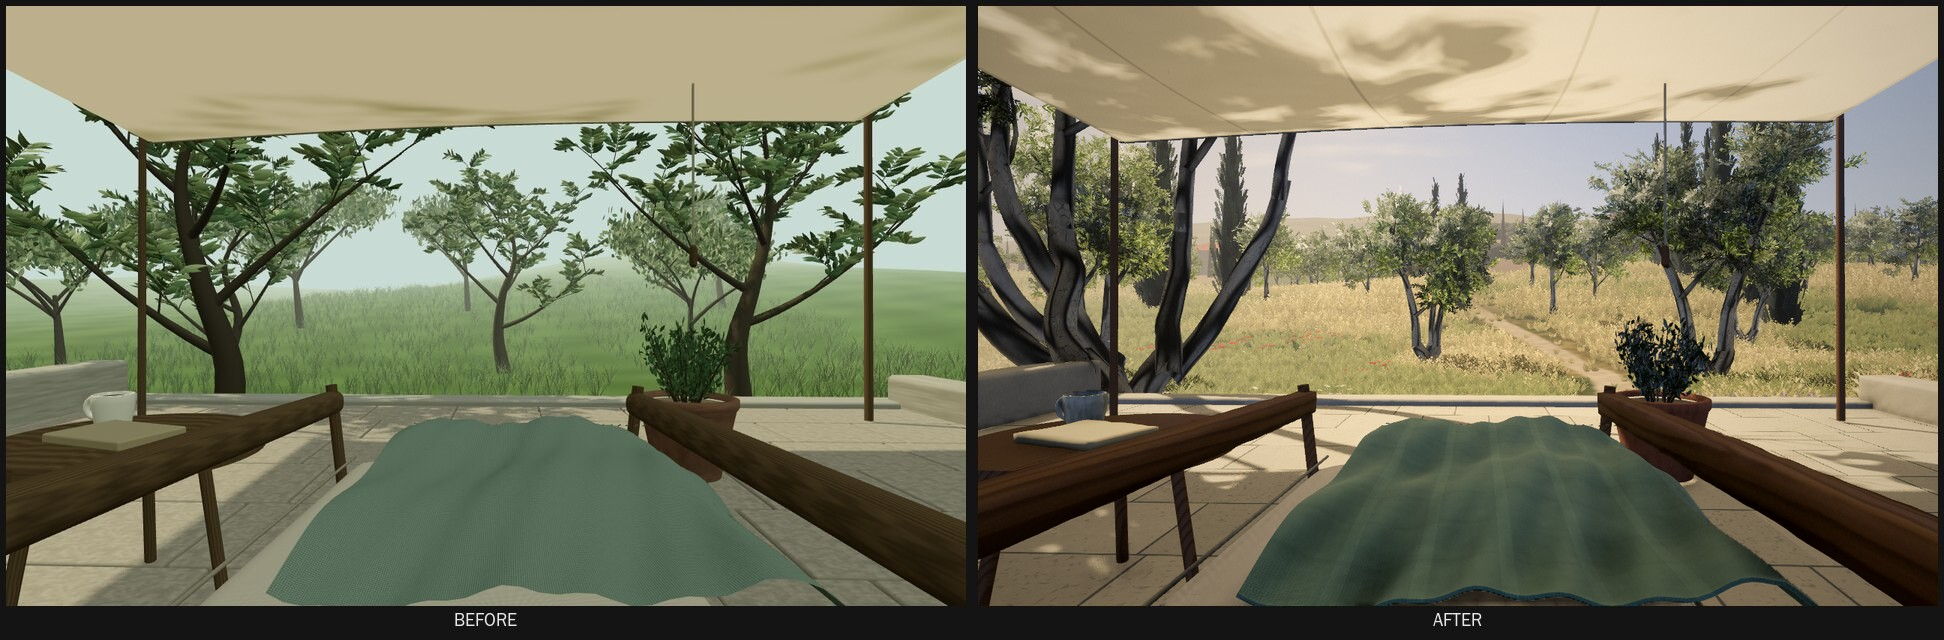
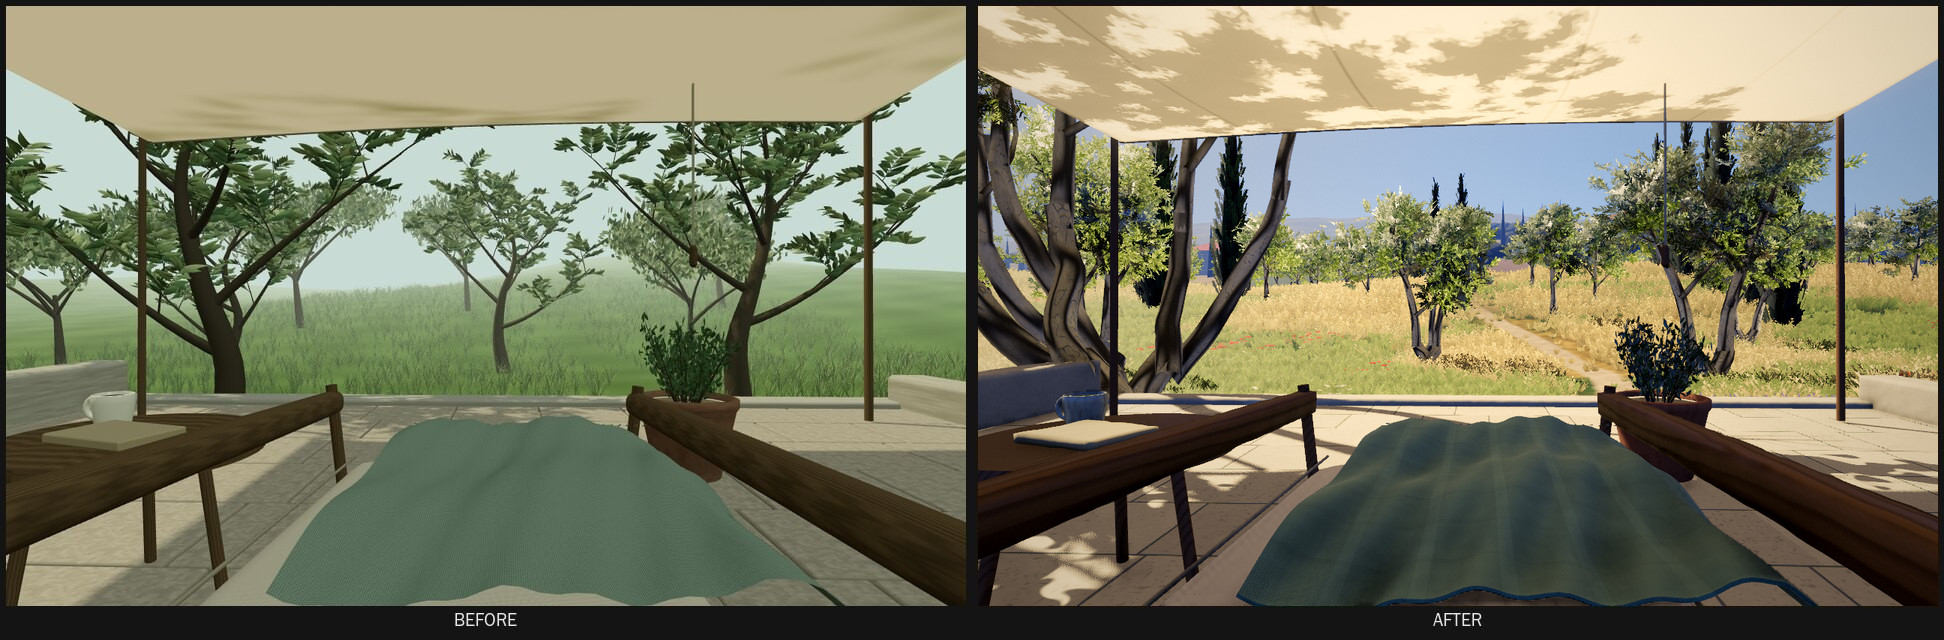
Give the power-nap terrace daylight you can feel
The second-pass garden still read hazy and low-contrast: a pale milky
horizon, warm haze veiling the near meadow, a weak sun against a strong
fill, a pale sail and an unthresholded bloom lifting every shadow.

- Sun 4.8 -> 8.4 against a lower probe fill, so sun and shade separate;
  crisper canopy dapples (narrower transition, leaf-scale flecks).
- Sky as linear HDR radiance: saturated zenith over a lighter but still
  blue horizon, an aureole on the sun's side, sparse cumulus, and sunlit
  fields below the horizon so the probe gives warm ground bounce.
- Garden volume: haze gated by distance (new `clear` option), so the
  near meadow stays clear and only the far ridges recede into blue;
  short sky path so the haze no longer greys the sky.
- Sail: warm HDR transmission that blooms, brightest toward the sun,
  with leaf shadows serrated at leaf scale. The radiance probe takes it
  at canvas-like strength (sailGain), so the shade beneath stays cool.
- Meadow: gold and green meet as patches; warmer gold, greener green
  tufts; stronger backlit translucency. Olive leaves glint (roughness
  0.4) and glow when backlit; more meadow bounce on the trunks.
- Grade: thresholded bloom instead of a veil, exposure 0.94, contrast
  1.09, saturation 1.14, warm highlights and cool shadows.

Luminance (gray mean / stddev), 1280x800: 0.474/0.248 -> 0.488/0.282;
390x844: 0.533/0.257 -> 0.532/0.290. No clipped whites. Same triangles
[…]

diff --git a/components/immersiveWorlds/cozyRooms/napTerrace.ts b/components/immersiveWorlds/cozyRooms/napTerrace.ts
@@ -6,7 +6,7 @@ import { createWoodMaterial } from '../shared/render/woodSurface';
 import { createFabricMaterial } from '../shared/render/fabricSurface';
 import { createGlazeMaterial, patchSurface } from '../shared/render/interiorSurface';
 import { applyBarkSurface } from '../shared/render/barkSurface';
-import { applyFoliageShading, type FoliageWind } from '../shared/render/foliageShading';
+import { applyFoliageShading, beforeMain, type FoliageWind } from '../shared/render/foliageShading';
 import { concatGeometries } from '../shared/render/treeGeometry';
 import { GLSL_NOISE } from '../shared/render/glsl';
 import { fbm3, noise3, seeded } from '../shared/render/noise';
@@ -21,10 +21,10 @@ import {
  * terrace, early afternoon. Beyond the low coping a meadow of dry gold and green
  * grass with drifts of poppies and chamomile runs past old olives with twisted,
  * split trunks to a grove on the rising slope, a lane of cypresses, farmhouses
- * with terracotta roofs and hills fading into warm haze. The sun is the key
- * light; one canopy function dapples the leaves, the meadow, the terrace and
- * the sail's transmitted glow and lights the shafts in the air. The shade is
- * lit by the sky and the sunlit garden (a radiance probe of the scene itself).
+ * with terracotta roofs and hills fading into blue distance under a clear sky.
+ * The sun is a strong key light; one canopy function dapples the leaves, the
+ * meadow, the terrace and the sail's transmitted glow. The shade is lit by the
+ * sky and the sunlit garden (a radiance probe of the scene itself).
  * Original procedural work.
  */
 
@@ -35,21 +35,30 @@ varying vec3 vWorld;
 void main() {
   vec3 d = normalize(vWorld - cameraPosition);
   float h = max(d.y, -0.05);
-  // Deep afternoon zenith over a warm, hazy horizon; brighter toward the sun's azimuth.
+  // Clear Mediterranean afternoon: a deep, saturated zenith over a lighter horizon
+  // that stays blue (linear radiance, graded by the HDR pipeline), a little paler
+  // toward the sun's azimuth.
   float toward = dot(normalize(vec3(d.x, 0.0, d.z) + 1e-5), normalize(vec3(uSun.x, 0.0, uSun.z))) * 0.5 + 0.5;
-  vec3 zenith = vec3(0.06, 0.2, 0.66), horizon = mix(vec3(0.36, 0.52, 0.84), vec3(0.96, 0.88, 0.74), pow(toward, 5.0));
-  vec3 sky = mix(horizon, zenith, pow(clamp(h / 0.55, 0.0, 1.0), 0.55));
-  // A thin warm dust band right on the horizon.
-  sky = mix(sky, vec3(0.94, 0.87, 0.76), exp(-max(h, 0.0) * 30.0) * 0.4);
-  float mu = dot(d, uSun);
-  sky += vec3(1.0, 0.86, 0.62) * (pow(max(mu, 0.0), 6.0) * 0.45 + pow(max(mu, 0.0), 90.0) * 2.5);
-  // Small fair-weather cumulus low over the hills, lit on the sun side.
+  vec3 zenith = vec3(0.11, 0.31, 0.98), horizon = mix(vec3(0.3, 0.68, 2.1), vec3(0.52, 0.8, 1.95), pow(toward, 4.0));
+  vec3 sky = mix(horizon, zenith, pow(clamp(h / 0.5, 0.0, 1.0), 0.6));
+  // Only a thin, pale band right on the horizon line.
+  sky = mix(sky, vec3(0.58, 0.84, 1.9), exp(-max(h, 0.0) * 60.0) * 0.45);
+  // The sun's aureole brightens the sky on its side; the HDR disc itself is hidden
+  // by the sail from the chaise and shows only in the radiance probe's highlights.
+  float mu = max(dot(d, uSun), 0.0);
+  sky += vec3(1.0, 0.9, 0.72) * (pow(mu, 6.0) * 0.36 + pow(mu, 20.0) * 1.8 + pow(mu, 400.0) * 30.0);
+  // A few fair-weather cumulus low over the hills: bright sun side, blue-grey shade.
   vec2 cp = d.xz / max(h + 0.1, 0.04) * 0.55;
   float c = bwFbm5(vec3(cp * vec2(0.8, 1.5) + vec2(3.0, 1.0), 1.3));
-  float cloud = smoothstep(0.16, 0.48, c) * smoothstep(0.03, 0.12, h) * (1.0 - smoothstep(0.32, 0.6, h));
-  vec3 cloudColor = mix(vec3(0.62, 0.66, 0.76), vec3(1.35, 1.27, 1.12), smoothstep(-0.1, 0.45, c - 0.18 + toward * 0.25));
-  sky = mix(sky, cloudColor, cloud * 0.8);
-  gl_FragColor = vec4(sky * 1.15, 1.0);
+  float cloud = smoothstep(0.3, 0.4, c) * smoothstep(0.035, 0.1, h) * (1.0 - smoothstep(0.3, 0.55, h));
+  // Sunlit tops, cooler flat bases: lit from above-left, the base faces the shaded ground.
+  float cLit = smoothstep(0.3, 0.52, c) * (0.6 + 0.4 * toward);
+  vec3 cloudColor = mix(vec3(0.78, 0.9, 1.4), vec3(2.5, 2.4, 2.2), cLit);
+  sky = mix(sky, cloudColor, cloud * 0.9);
+  // Below the horizon (seen only by the radiance probe, behind the terrace): sunlit dry
+  // fields, so shade facing away from the garden takes warm ground bounce, not sky blue.
+  sky = mix(sky, vec3(0.4, 0.32, 0.2), smoothstep(0.0, -0.08, d.y));
+  gl_FragColor = vec4(sky, 1.0);
   #include <tonemapping_fragment>
   #include <colorspace_fragment>
 }
@@ -127,17 +136,20 @@ export function createNapTerraceWorld(): WorldBuild {
   ];
   const olives = oliveSpecs.map(buildOlive);
   const crowns: Crown[] = [...olives[0].crowns, ...olives.slice(1).map(o => mergeCrowns(o.crowns, 0.88))];
-  const canopy = oliveCanopy({ crowns: crowns.map(c => ({ centre: c.centre, radius: c.radius.clone().multiplyScalar(0.92) })), density: 1.6, gaps: -0.05, softness: 0.2, fleck: 4.5, clump: 1.5, time: timeUniform });
+  // Leaves a metre or two above the sail and flags cast crisp dapples: a narrow transition width.
+  const canopy = oliveCanopy({ crowns: crowns.map(c => ({ centre: c.centre, radius: c.radius.clone().multiplyScalar(0.92) })), density: 1.8, gaps: -0.04, softness: 0.1, fleck: 6.5, clump: 2.2, time: timeUniform });
   const treeWind: FoliageWind = { time: timeUniform, mode: 'attribute', sway: 0.12, flutter: 0.018, direction: [1, 0.35], speed: 0.75 };
-  const meadowBounce = new THREE.Color(1.0, 0.82, 0.56).multiplyScalar(0.2);
+  // Warm light bounced up from the sunlit meadow; the trunks, standing in it, take the most.
+  const meadowBounce = new THREE.Color(1.0, 0.8, 0.5).multiplyScalar(0.3);
   const oliveBark = groundBounce(applyFoliageShading(deepFurrows(applyBarkSurface(new THREE.MeshStandardMaterial({ color: '#ffffff', roughness: 0.9 }), {
     key: 'nap-olive-bark', scale: OLIVE_BARK.scale, stretch: OLIVE_BARK.stretch, depth: 0.035, plate: '#bdb7a4', fissure: '#3b352c',
     lichen: { color: '#cfd0b8', amount: 0.5 }, moss: { color: '#6b6f3a', amount: 0.12, below: -0.2, side: new THREE.Vector3(0.5, 0, 0.8) },
-  }), 0.36), { key: 'nap-olive-bark', canopy, wind: treeWind }), 'bark', meadowBounce);
+  }), 0.36), { key: 'nap-olive-bark', canopy, wind: treeWind }), 'bark', meadowBounce.clone().multiplyScalar(2.2));
   const oliveMap = oliveSprayAtlas(11);
-  const oliveLeaves = groundBounce(applyFoliageShading(new THREE.MeshStandardMaterial({ map: oliveMap, vertexColors: true, side: THREE.DoubleSide, alphaTest: 0.5, alphaToCoverage: true, roughness: 0.48, metalness: 0 }), {
+  // Waxy olive leaves: a tighter specular lobe glints in the sun; thin blades glow when backlit.
+  const oliveLeaves = groundBounce(applyFoliageShading(new THREE.MeshStandardMaterial({ map: oliveMap, vertexColors: true, side: THREE.DoubleSide, alphaTest: 0.5, alphaToCoverage: true, roughness: 0.4, metalness: 0 }), {
     key: 'nap-olive-leaves', canopy, wind: treeWind, sharedNormals: true, coverage: true,
-    translucency: { tint: '#e9f0a8', back: 0.42, forward: 1.1 },
+    translucency: { tint: '#e4f09a', back: 0.55, forward: 1.5 },
   }), 'leaves', meadowBounce.clone().multiplyScalar(0.7));
   const barkMesh = new THREE.Mesh(concatGeometries(olives.map(o => o.bark)), oliveBark);
   barkMesh.castShadow = true; barkMesh.receiveShadow = true; barkMesh.name = 'olive-bark'; scene.add(barkMesh);
@@ -209,12 +221,13 @@ float mDry = smoothstep(-0.18, 0.3, bwFbm3(vec3(mp.x * 0.07 + 4.0, 0.5, mp.z * 0
 float mLush = bwFbm3(vec3(mp.x * 0.16 + 9.0, 1.5, mp.z * 0.16));
 float mFine = bwNoise(mp * 7.0) * bwResolve(length(fwidth(mp)) * 7.0);
 float mClump = bwNoise(vec3(mp.x * 1.7, 2.0, mp.z * 1.7));
-vec3 green = vec3(0.075, 0.12, 0.03), gold = vec3(0.42, 0.3, 0.11), soil = vec3(0.2, 0.14, 0.08);
-vec3 mColor = mix(green, gold, clamp(mDry * 0.9 - mLush * 0.25, 0.0, 1.0));
+vec3 green = vec3(0.055, 0.13, 0.018), gold = vec3(0.5, 0.32, 0.085), soil = vec3(0.2, 0.13, 0.07);
+// Green and gold meet over a short distance: patches, not a blend.
+vec3 mColor = mix(green, gold, smoothstep(0.15, 0.75, mDry * 0.9 - mLush * 0.25));
 mColor *= 0.78 + 0.2 * mClump + 0.08 * mFine;
 mColor = mix(mColor, soil, smoothstep(0.35, 0.75, -mClump) * 0.35);
 // Thatch between the tufts: last year's grass lies dark and matted in the shade of the new.
-mColor *= 0.5 + 0.16 * smoothstep(-0.3, 0.5, mClump);
+mColor *= 0.52 + 0.18 * smoothstep(-0.3, 0.5, mClump);
 // Trodden path: pale dusty earth with pebbles, grass creeping in at its edges.
 float mPathD = abs(mp.x - (1.4 + sin(((-mp.z - 4.6) / 0.6) * 0.092) * 2.5));
 float mPathW = 0.48 + max(0.0, -mp.z) * 0.004 + 0.08 * bwNoise(mp * 1.3);
@@ -239,14 +252,17 @@ diffuseColor.rgb = mColor;`,
   const grassWind: FoliageWind = { time: timeUniform, mode: 'height', height: 1, sway: 0.05, flutter: 0.012, direction: [1, 0.35], speed: 0.8 };
   const grassMaterial = applyFoliageShading(new THREE.MeshStandardMaterial({ map: meadowMap, vertexColors: true, side: THREE.DoubleSide, alphaTest: 0.5, alphaToCoverage: true, roughness: 0.82, metalness: 0 }), {
     key: 'nap-meadow-tufts', canopy, wind: grassWind, sharedNormals: true, coverage: true,
-    translucency: { tint: '#e6eb9c', back: 0.4, forward: 0.75 },
+    translucency: { tint: '#ecee92', back: 0.45, forward: 1.0 },
   });
   const near: Record<MeadowVariant, TuftPlacement[]> = { green: [], dry: [], mixed: [], poppy: [], daisy: [], lavender: [] };
   const far: Record<MeadowVariant, TuftPlacement[]> = { green: [], dry: [], mixed: [], poppy: [], daisy: [], lavender: [] };
   const meadowRandom = seeded(811);
   const tint = (variant: MeadowVariant, dry: number) => {
     const k = 0.7 + meadowRandom() * 0.42;
-    if (variant === 'dry' || variant === 'mixed') return new THREE.Color(k * (1 + dry * 0.06), k, k * (0.92 + meadowRandom() * 0.1));
+    // Sun-ripened gold leans warm; the green stays green, so the two read apart in the light.
+    if (variant === 'dry') return new THREE.Color(k * (1.1 + dry * 0.06), k, k * (0.74 + meadowRandom() * 0.1));
+    if (variant === 'mixed') return new THREE.Color(k * (1.02 + dry * 0.06), k, k * (0.8 + meadowRandom() * 0.1));
+    if (variant === 'green') return new THREE.Color(k * 0.88, k * (1.08 - dry * 0.05), k * 0.72);
     return new THREE.Color(k, k * (1.02 - dry * 0.05), k * 0.95);
   };
   const place = (band: Record<MeadowVariant, TuftPlacement[]>, x: number, z: number, scale: number, stubble = false) => {
@@ -370,8 +386,11 @@ diffuseColor.rgb = rColor;`,
     pattern: 'fbBase *= 0.9 + 0.12 * step(0.82, fract(fbUv.x * 6.0)) - 0.05 * step(0.9, fract(fbUv.y * 6.0));' }, { side: THREE.DoubleSide });
   // The sail: linen lit from above. Its underside shows sunlight transmitted
   // through the weave, shaded by the olive crown over the terrace corner: the
-  // same canopy function as the ground dapple, averaged over a few taps so the
-  // leaf shadow is soft where the crown is a couple of metres above the cloth.
+  // same canopy function as the ground dapple, averaged over a few close taps.
+  // `sailGain` scales the glow: the eye sees it in full, but the radiance probe
+  // takes it at the light a real canvas passes (about a third of the sun), so
+  // the shade beneath stays shade.
+  const sailGain = { value: 1 };
   const sailMat = createFabricMaterial('#efe4c8', {
     key: 'nap-sail', weave: 'plain', threads: [2400, 1650], heather: 0.4, fuzz: 0.2, depth: 0.0005, roughness: 0.95,
     // Panel seams and the taped hem are two layers of cloth, so they pass less light; corner patches more so.
@@ -387,14 +406,23 @@ fbBase *= 1.0 - 0.3 * max(sBand, sTape) - 0.25 * sPatch;`,
   const sailPrevious = sailMat.onBeforeCompile;
   sailMat.onBeforeCompile = (shader, renderer) => {
     sailPrevious.call(sailMat, shader, renderer);
-    shader.fragmentShader = shader.fragmentShader.replace('#include <emissivemap_fragment>', `#include <emissivemap_fragment>
+    shader.uniforms.uNapSailGain = sailGain;
+    shader.fragmentShader = beforeMain(shader.fragmentShader, 'uniform float uNapSailGain;').replace('#include <emissivemap_fragment>', `#include <emissivemap_fragment>
 {
   vec3 sp = vSurfaceWorld + vec3(0.0, 0.03, 0.0);
-  float leaf = (bwCanopy(sp) + bwCanopy(sp + vec3(0.09, 0.0, 0.02)) + bwCanopy(sp + vec3(-0.04, 0.0, 0.085)) + bwCanopy(sp + vec3(-0.05, 0.0, -0.07))) * 0.25;
+  // Leaf-scale serration: a fine warp of the lookup breaks the cluster outlines into leaves.
+  vec2 sw = vec2(bwNoise(sp * 23.0), bwNoise(sp * 23.0 + 7.3)) * 0.05 + vec2(bwNoise(sp * 8.0 + 3.1), bwNoise(sp * 8.0 + 5.7)) * 0.06;
+  vec3 sq = sp + vec3(sw.x, 0.0, sw.y);
+  // A few close taps: the leaves are a metre or two above the cloth, so their shadows stay crisp.
+  float leaf = (bwCanopy(sq) + bwCanopy(sq + vec3(0.035, 0.0, 0.01)) + bwCanopy(sq + vec3(-0.015, 0.0, 0.032)) + bwCanopy(sq + vec3(-0.02, 0.0, -0.026))) * 0.25;
   float sunUp = max(dot(normalize(vSurfaceNormal), uBwToSun), 0.55);
-  // Sunlight diffused through the weave, plus the skylight that always comes through.
-  vec3 through = vec3(1.0, 0.93, 0.78) * (0.36 + 1.3 * leaf * sunUp) * (0.92 + 0.08 * fbH);
-  totalEmissiveRadiance = diffuseColor.rgb * through;
+  // The weave scatters a little more light straight on: the cloth glows brightest where
+  // it lies between the eye and the sun, so the sun's side of the sail is felt.
+  float forward = pow(max(dot(normalize(vSurfaceWorld - cameraPosition), uBwToSun), 0.0), 4.0);
+  // Sunlight diffused through the weave glows warm and bright enough to bloom. Under the
+  // leaf shadows the cloth still glows: skylight plus sun scattered sideways in the weave.
+  vec3 through = vec3(1.0, 0.8, 0.5) * (leaf * sunUp * (3.2 + 4.0 * forward)) + vec3(0.95, 0.84, 0.66) * 0.72;
+  totalEmissiveRadiance = diffuseColor.rgb * through * (0.92 + 0.08 * fbH) * uNapSailGain;
 }`);
   };
   applyFoliageShading(sailMat, { key: 'nap-sail', canopy });
@@ -431,8 +459,9 @@ diffuseColor.rgb = fColor;`,
   const coping = applyFoliageShading(patchSurface(new THREE.MeshStandardMaterial({ color: '#c9bea2', roughness: 0.8 }), {
     key: 'nap-coping', color: 'float cpN = bwFbm3(vSurfaceWorld * 2.2); diffuseColor.rgb *= 0.88 + 0.16 * cpN + 0.05 * bwNoise(vSurfaceWorld * 30.0);', height: 'cpN * 0.002',
   }), { key: 'nap-coping', canopy });
-  // The sun: the one key light, its soft shadow map refreshed now and then.
-  const sun = new THREE.DirectionalLight(new THREE.Color(1.0, 0.93, 0.8), 4.8);
+  // The sun: the one key light, its soft shadow map refreshed now and then. Strong
+  // against the sky's fill (as in clear Mediterranean air), so sun and shade separate.
+  const sun = new THREE.DirectionalLight(new THREE.Color(1.0, 0.92, 0.78), 8.4);
   sun.position.copy(TO_SUN).multiplyScalar(24).add(new THREE.Vector3(-0.5, 0, -3)); sun.target.position.set(-0.5, 0, -3);
   sun.castShadow = true;
   sun.shadow.mapSize.set(2048, 2048);
@@ -541,7 +570,7 @@ diffuseColor.rgb = fColor;`,
   const pot = addMesh(new THREE.LatheGeometry([new THREE.Vector2(0.23, 0), new THREE.Vector2(0.24, 0.06), new THREE.Vector2(0.33, 0.47), new THREE.Vector2(0.35, 0.50), new THREE.Vector2(0.35, 0.55), new THREE.Vector2(0.31, 0.56), new THREE.Vector2(0.30, 0.51)], 40), potMat, 1.42, 0, -1.42);
   const soil = new THREE.Mesh(new THREE.CircleGeometry(0.305, 36), new THREE.MeshStandardMaterial({ color: '#3f3626', roughness: 1 })); soil.rotation.x = -Math.PI / 2; soil.position.set(1.42, 0.50, -1.42); scene.add(soil);
   const herbGroup = new THREE.Group(); herbGroup.position.set(1.42, 0, -1.42); scene.add(herbGroup);
-  const herbMaterial = patchSurface(new THREE.MeshStandardMaterial({ color: '#4e6542', roughness: 0.6, side: THREE.DoubleSide }), {
+  const herbMaterial = patchSurface(new THREE.MeshStandardMaterial({ color: '#68844f', roughness: 0.8, side: THREE.DoubleSide }), {
     key: 'nap-rosemary', color: 'diffuseColor.rgb = gl_FrontFacing ? diffuseColor.rgb : mix(diffuseColor.rgb, vec3(0.62, 0.66, 0.58), 0.55); diffuseColor.rgb *= 0.85 + 0.3 * bwNoise(vSurfaceWorld * 7.0);',
   });
   const herb = new THREE.InstancedMesh(leafGeometry(), herbMaterial, 1120);
@@ -594,19 +623,26 @@ diffuseColor.rgb = fColor;`,
   return {
     scene, camera, resize,
     post: {
-      exposure: 0.95, bloomStrength: 0.05, bloomThreshold: 0, aoStrength: 0.8, aoRadius: 0.5,
-      saturation: 1.1, contrast: 1.1, shadowTint: [0.93, 0.97, 1.05], highlightTint: [1.05, 1.0, 0.93], vignette: 0.32, grain: 0.02,
+      // Thresholded bloom: only the glowing sail, the aureole and glints spill light,
+      // instead of a veil lifting every shadow. Warm highlights, cool shade.
+      exposure: 0.94, bloomStrength: 0.18, bloomThreshold: 0.95, aoStrength: 0.75, aoRadius: 0.5,
+      saturation: 1.14, contrast: 1.09, shadowTint: [0.94, 0.98, 1.05], highlightTint: [1.05, 1.0, 0.92], vignette: 0.28, grain: 0.018,
     },
     createVolume() {
-      // Aerial perspective in warm haze, and faint shafts where the sun breaks through the near olive.
+      // Clear air near the terrace; blue aerial perspective only out at the far ridges,
+      // converging on the horizon sky, warmer and brighter toward the sun. The sky gets a
+      // short path so the haze does not grey it.
       return createGardenVolume({
-        canopy, sun: new THREE.Color(1.0, 0.84, 0.62).multiplyScalar(1.05), ambient: new THREE.Color(0.52, 0.6, 0.74).multiplyScalar(0.55),
-        haze: [0.0014, 0.018, -0.4, 480], skyDistance: 230, sail: [2.95, -3.65, 3.65, -3.15, 2.05], anisotropy: 0.55, steps: 22,
+        canopy, sun: new THREE.Color(1.0, 0.88, 0.7).multiplyScalar(0.22), ambient: new THREE.Color(0.3, 0.6, 1.55),
+        haze: [0.0034, 0.012, -0.4, 480], clear: { start: 30, end: 150, near: 0.04 }, skyDistance: 190,
+        sail: [2.95, -3.65, 3.65, -3.15, 2.05], anisotropy: 0.6, steps: 22,
       });
     },
     prepare(renderer) {
       // Sky, sail and sunlit garden as seen from the chaise light the shade.
-      probe = captureRoomProbe(renderer, scene, new THREE.Vector3(0.1, 1.2, 1.4), 0.62, { far: 500 });
+      sailGain.value = 0.3;
+      try { probe = captureRoomProbe(renderer, scene, new THREE.Vector3(0.1, 1.2, 1.4), 0.66, { far: 500 }); }
+      finally { sailGain.value = 1; }
     },
     dispose() { probe?.dispose(); probe = null; },
     update(time: number, _dt: number) {

diff --git a/components/immersiveWorlds/cozyRooms/napGarden.ts b/components/immersiveWorlds/cozyRooms/napGarden.ts
@@ -183,6 +183,12 @@ export interface GardenVolumeOptions {
   ambient: THREE.Color;
   /** Density per metre at `base` height, height falloff per metre, base height, maximum march distance. */
   haze: [number, number, number, number];
+  /**
+   * Aerial haze only at real distance: density ramps from `near` (fraction of
+   * full) at `start` metres to full at `end`, so clear air never veils the
+   * near garden while the far ridges still recede.
+   */
+  clear?: { start: number; end: number; near: number };
   /** Path length used for sky pixels. */
   skyDistance: number;
   /** The sail as a horizontal rectangle (height, x min, x max, z min, z max) that blocks the sun. */
@@ -200,6 +206,7 @@ uniform vec3 uVolToSun;
 uniform vec3 uVolSun;
 uniform vec3 uVolAmbient;
 uniform vec4 uVolHaze;
+uniform vec3 uVolClear;
 uniform float uVolSky;
 uniform float uVolSailY;
 uniform vec4 uVolSail;
@@ -228,7 +235,8 @@ void main() {
     float dt = t - previous;
     previous = t;
     vec3 p = ro + rd * t;
-    float density = uVolHaze.x * exp(-max(p.y - uVolHaze.z, 0.0) * uVolHaze.y) * (0.8 + 0.2 * bwValue(p * 0.05 + vec3(uTime * 0.01, 0.0, 0.0)));
+    float density = uVolHaze.x * exp(-max(p.y - uVolHaze.z, 0.0) * uVolHaze.y) * (0.8 + 0.2 * bwValue(p * 0.05 + vec3(uTime * 0.01, 0.0, 0.0)))
+      * mix(uVolClear.z, 1.0, smoothstep(uVolClear.x, uVolClear.y, t));
     float sun = bwCanopy(p) * sailShade(p);
     vec3 radiance = uVolSun * phase * sun + uVolAmbient;
     float stepT = exp(-density * dt);
@@ -246,6 +254,7 @@ void main() {
       uVolSun: { value: new THREE.Vector3(o.sun.r, o.sun.g, o.sun.b) },
       uVolAmbient: { value: new THREE.Vector3(o.ambient.r, o.ambient.g, o.ambient.b) },
       uVolHaze: { value: new THREE.Vector4(...o.haze) },
+      uVolClear: { value: new THREE.Vector3(o.clear?.start ?? 0, o.clear?.end ?? 1e-3, o.clear?.near ?? 1) },
       uVolSky: { value: o.skyDistance },
       uVolSailY: { value: o.sail[0] },
       uVolSail: { value: new THREE.Vector4(o.sail[1], o.sail[2], o.sail[3], o.sail[4]) },

diff --git a/components/immersiveWorlds/cozyRooms/INTEGRATION.md b/components/immersiveWorlds/cozyRooms/INTEGRATION.md
@@ -63,6 +63,8 @@ Worlds now describe light physically: one motivated key (fire, moon, sun, blue-h
 
 The terrace garden is built in `napGarden.ts` (geometry, the shared canopy function and the haze/shaft volume) and `gardenPaint.ts` (a small pure-JS painter for the olive, cypress and meadow atlases, so the same drawings run in Node tests). Old olives are lofted, twisted strands with burls and flutes that part into `treeGeometry` crowns of small silver-green sprays; cypresses are dense card columns around a dark core; the meadow is instanced tuft cards (green, dry, mixed, poppy, chamomile, lavender) placed by low-frequency fields, thinned along the path, with a cheaper far band and sparse stubble on the grove slope. One canopy function (`oliveCanopy`, with a CPU twin for tests) dapples the leaves, bark, meadow, flags and the sail's transmitted light and lights the shafts in the volume pass. `napGarden.test.ts` and `gardenPaint.test.ts` hold the budget (under 0.9M triangles including the shadow pass), tree, canopy, meadow and atlas contracts.
 
+Daylight: a strong warm key sun (8.4) against the sky's fill, so sunlit and shaded surfaces separate, with crisp canopy dapples. The sky is linear HDR radiance: a saturated zenith over a lighter blue horizon, the sun's aureole on its side, a few cumulus, and sunlit fields below the horizon so the radiance probe gives warm ground bounce instead of sky blue. The garden volume's haze is gated by distance (`clear`), so the near meadow stays clear and only the far ridges recede into blue aerial perspective; sky pixels take a short path so the haze does not grey them. The sail transmits the sun as warm HDR light that blooms, brightest on the sun's side, with leaf shadows broken at leaf scale. The radiance probe sees it at about a third of that (`sailGain`), as much light as real canvas passes, so the shade beneath stays cool shade. The grade uses thresholded bloom (only the sail, aureole and glints spill light) in place of the earlier veil, with warm highlights and cool shadows.
+
 ## Source / rights
 
 All meshes, GLSL and CanvasTexture maps are authored for this group. No generated-image service was used and no external scene assets were downloaded. The public asset folder is intentionally empty. Both requested JEV galleries were actually inspected; concrete adopted and rejected principles, observations and rights limitations are recorded in `REFERENCES.md`. Existing installed Three.js/React are reused under the repository dependency licenses.
